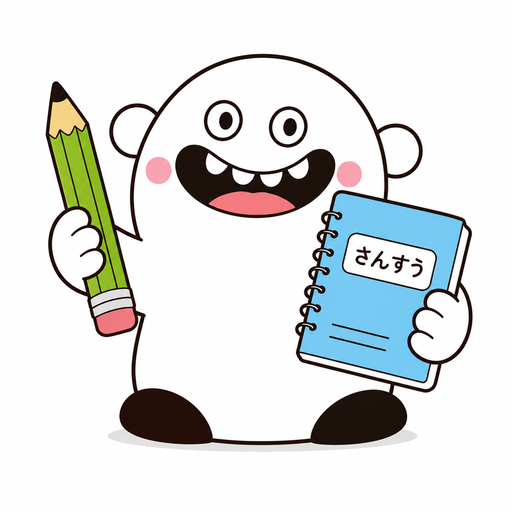
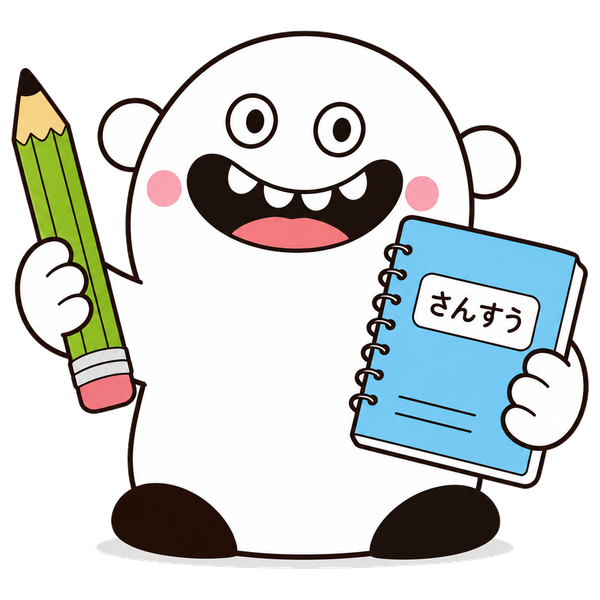
Feature: introduce mascot character (404 page + homepage hero)
- mascot.png を背景透過に加工（白地キャラの外側白のみ除去）
- 404.html を新規作成（マスコット＋親しみ文＋人気ページ導線、noindex）
- トップページのヒーロー右下にマスコットを配置（PC・モバイル確認済み）

diff --git a/404.html b/404.html
@@ -1,0 +1,48 @@
+<!DOCTYPE html>
+<html lang="ja">
+<head>
+<meta charset="UTF-8">
+<meta name="viewport" content="width=device-width, initial-scale=1.0">
+<title>ページが見つかりません | にじゅうまるドリル</title>
+<meta name="robots" content="noindex, follow">
+<link rel="icon" href="/favicon.ico" sizes="any">
+<link rel="icon" type="image/png" sizes="32x32" href="/favicon-32.png">
+<link rel="apple-touch-icon" href="/apple-touch-icon.png">
+<meta name="theme-color" content="#FFFFFF">
+<link rel="preconnect" href="https://fonts.googleapis.com">
+<link href="https://fonts.googleapis.com/css2?family=Noto+Sans+JP:wght@400;500;700&display=swap" rel="stylesheet">
+<style>
+*{box-sizing:border-box;margin:0;padding:0;}
+body{font-family:'Noto Sans JP',sans-serif;background:#FFFDF7;color:#3F3A36;line-height:1.8;
+  min-height:100vh;display:flex;align-items:center;justify-content:center;padding:24px;}
+.card{max-width:420px;width:100%;text-align:center;}
+.mascot{width:200px;height:auto;margin:0 auto 8px;display:block;}
+.code{font-size:13px;font-weight:700;color:#F47A72;letter-spacing:2px;}
+h1{font-size:20px;font-weight:700;color:#6E4B3A;margin:6px 0 10px;}
+p{font-size:14px;color:#6B6560;margin-bottom:22px;}
+.home-btn{display:inline-block;background:#F47A72;color:#fff;font-weight:700;font-size:15px;
+  padding:13px 30px;border-radius:50px;text-decoration:none;box-shadow:0 4px 14px rgba(244,122,114,0.35);}
+.links{margin-top:26px;display:grid;grid-template-columns:1fr 1fr;gap:8px;}
+.links a{background:#fff;border:1px solid #EFE7DC;border-radius:10px;padding:11px;font-size:13px;
+  font-weight:700;color:#5AA7E0;text-decoration:none;}
+footer{margin-top:28px;font-size:11px;color:#B8B0A6;}
+footer a{color:#B8B0A6;}
+</style>
+</head>
+<body>
+<div class="card">
+  <img class="mascot" src="/mascot.png" alt="にじゅうまるドリルのマスコット">
+  <div class="code">404</div>
+  <h1>ページが見つかりませんでした</h1>
+  <p>おっと！おさがしのページは引っこしたか、なくなったみたいです。<br>下のボタンからトップにもどってね。</p>
+  <a class="home-btn" href="/">🏠 トップにもどる</a>
+  <div class="links">
+    <a href="/grade-guide.html">学年別ガイド</a>
+    <a href="/sansu-onayami-guide.html">お悩み解決ガイド</a>
+    <a href="/kuku-tips.html">九九の覚え方</a>
+    <a href="/sansu-9sai-no-kabe.html">9歳の壁とは</a>
+  </div>
+  <footer><a href="/">にじゅうまるドリル</a>｜小学生の無料算数ドリル</footer>
+</div>
+</body>
+</html>

diff --git a/index.html b/index.html
@@ -603,6 +603,7 @@ footer{text-align:center;padding:20px 16px 32px;font-size:11px;color:var(--text-
     <div class="hero-title"><span class="brand">にじゅうまる。</span>算数ドリル</div>
     <div class="hero-sub">印刷不要・スマホでその場で即採点<br>完全無料・アプリ不要・文部科学省準拠</div>
     <span class="hero-badge">小学1〜6年生対応</span>
+    <img src="/mascot.png" alt="にじゅうまるドリルのマスコット" style="position:absolute;right:6px;bottom:-10px;width:92px;height:auto;pointer-events:none;filter:drop-shadow(0 2px 6px rgba(0,0,0,0.25));">
   </div>
 
   <!-- 毎日ドリルバナー -->
